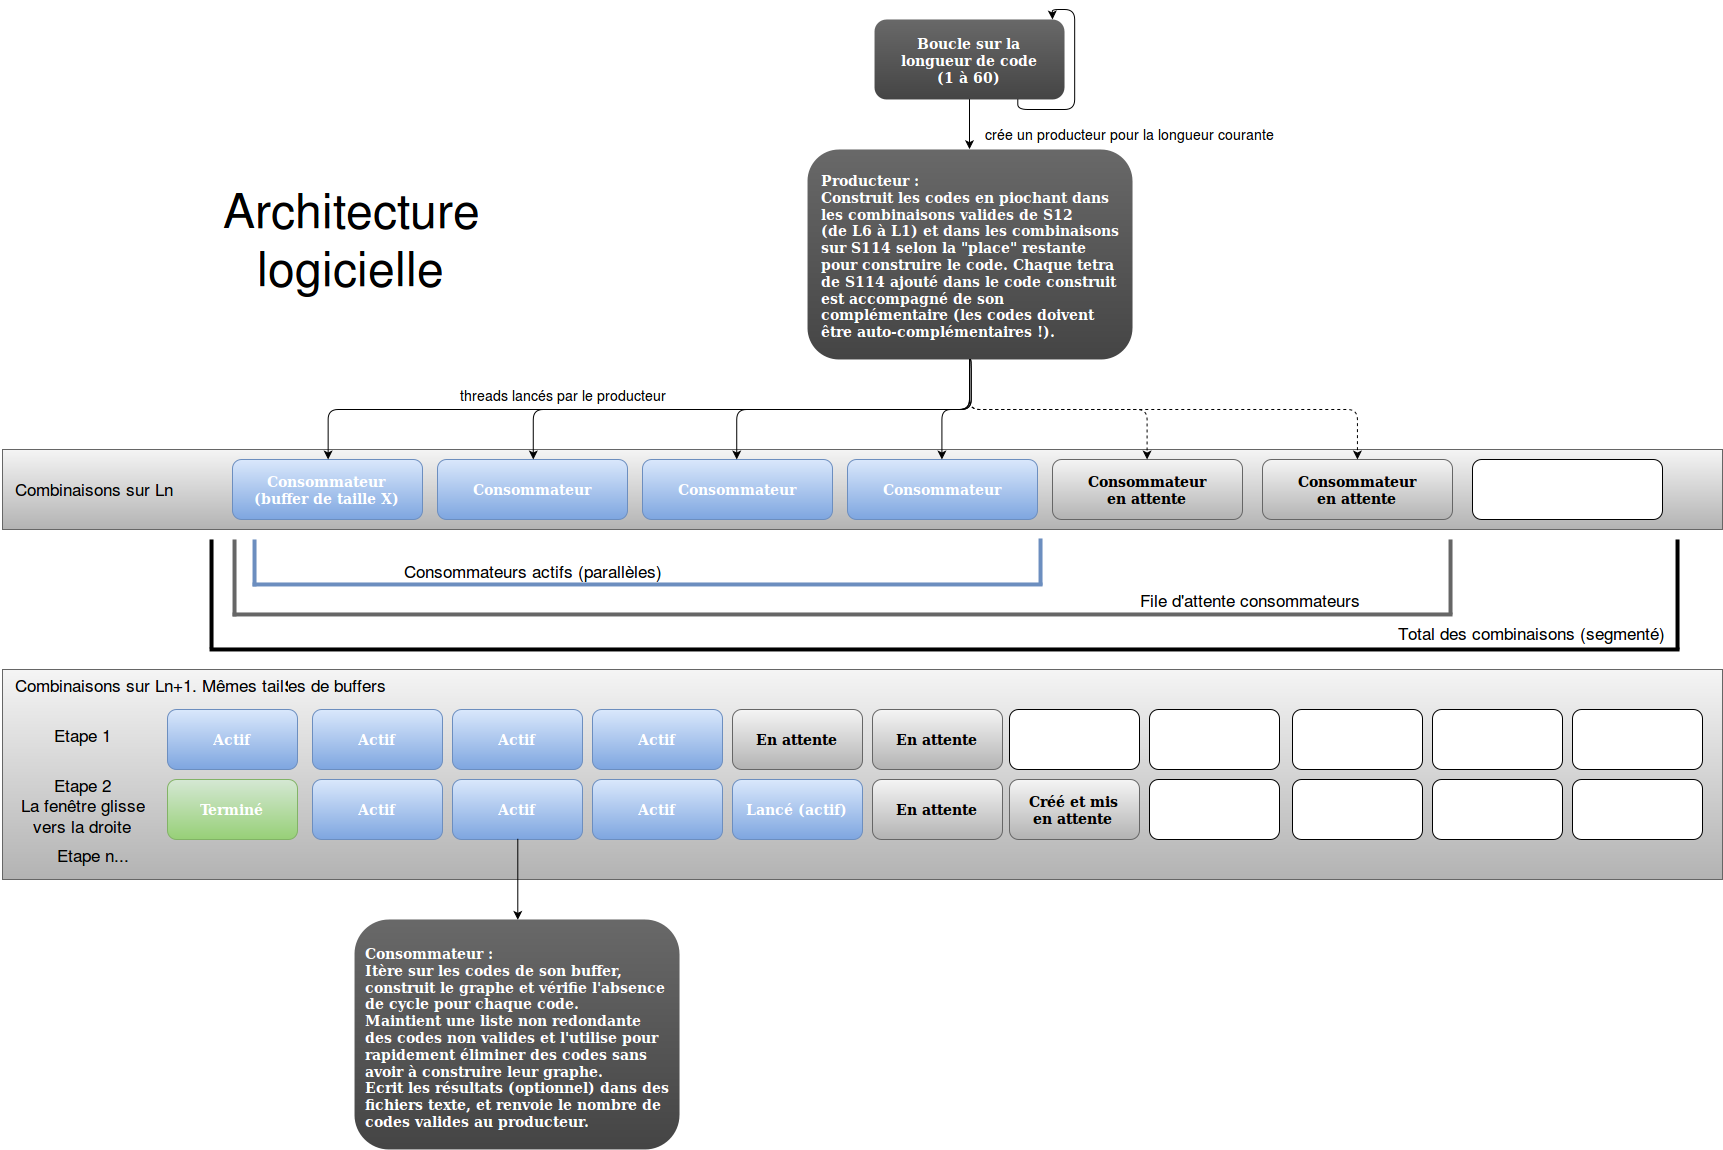
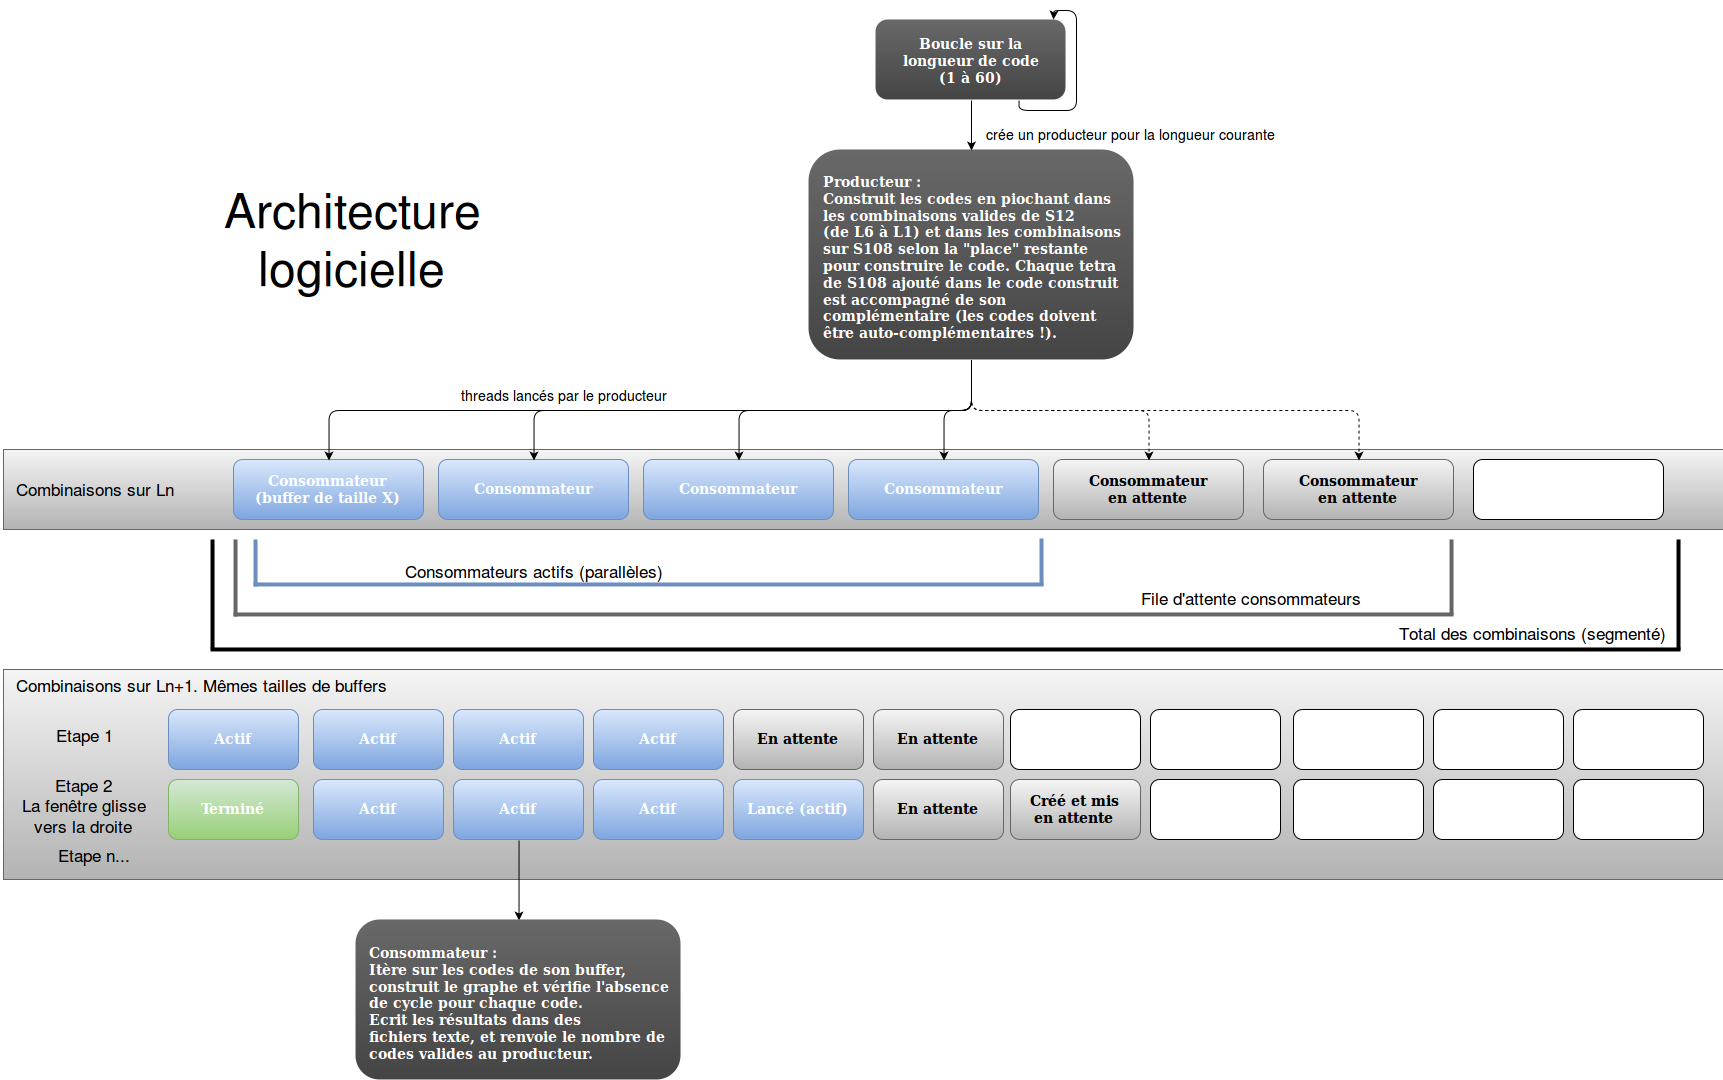
Fix big integer issue starting at L12 (more than 3G codes)

Changed region(s): [[0.0, 0.3361, 1.0, 1.0], [0.4614, 0.0306, 0.7382, 0.3361], [0.123, 0.1528, 0.2768, 0.275]]

diff --git a/src/main/java/Tetra.java b/src/main/java/Tetra.java
@@ -1,4 +1,5 @@
 import java.io.File;
+import java.math.BigInteger;
 import java.text.SimpleDateFormat;
 import java.util.Date;
 import java.util.concurrent.*;
@@ -137,11 +138,11 @@ public class Tetra
             CompletionService<Integer> completionService = new ExecutorCompletionService<>(consumer);
 
             ExecutorService producerExecutor = Executors.newSingleThreadExecutor();
-            Callable<Integer> producer = new Producer(completionService, consumer, l);
+            Callable<BigInteger> producer = new Producer(completionService, consumer, l);
 
-            Future<Integer> future = producerExecutor.submit(producer);
+            Future<BigInteger> future = producerExecutor.submit(producer);
 
-            Integer numberOfValidCodes = 0;
+            BigInteger numberOfValidCodes = BigInteger.ZERO;
 
             try
             {
@@ -162,7 +163,7 @@ public class Tetra
 //            BigDecimal total = totalCombinations(l);
 //            float percent = BigDecimal.valueOf(numberOfValidCodes).divide(total, 2, RoundingMode.UP).floatValue() * 100;
 
-            System.out.print(String.format("%1$18s", numberOfValidCodes + " | "));
+            System.out.print(String.format("%1$18s", numberOfValidCodes.toString() + " | "));
 //            System.out.print(String.format("%1$18s", numberOfValidCodes + " (" + (int)percent + "%)" + " | "));
             System.out.println(String.format("%1$18s", new SimpleDateFormat("HH:mm:ss:SSS").format(new Date(elapsedTime-1000*3600)) + " |"));
         }

diff --git a/src/main/java/Producer.java b/src/main/java/Producer.java
@@ -1,4 +1,5 @@
 import java.io.*;
+import java.math.BigInteger;
 import java.util.ArrayList;
 import java.util.Arrays;
 import java.util.BitSet;
@@ -6,7 +7,7 @@ import java.util.List;
 import java.util.concurrent.*;
 import java.util.regex.Pattern;
 
-public class Producer implements Callable<Integer>
+public class Producer implements Callable<BigInteger>
 {
     private final ExecutorService consumerExecutor;
     private final CompletionService<Integer> completionService;
@@ -26,7 +27,7 @@ public class Producer implements Callable<Integer>
     }
 
     @Override
-    public Integer call() throws InterruptedException
+    public BigInteger call() throws InterruptedException
     {
         int BS12_choices;
         boolean even = (codeLength % 2 == 0);
@@ -257,18 +258,18 @@ public class Producer implements Callable<Integer>
         }
 
         // Cumulative number of valid codes
-        Integer total = 0;
-        Integer res;
+        BigInteger total = BigInteger.ZERO;
+        BigInteger res;
 
         try
         {
             for (int t = 0; t < numberOfConsumers; t++)
             {
                 // Get result as soon as it comes
-                res = completionService.take().get();
+                res = BigInteger.valueOf(completionService.take().get());
 
                 if (res != null)
-                    total += res;
+                    total = total.add(res);
             }
         }
         catch (InterruptedException | ExecutionException e)
